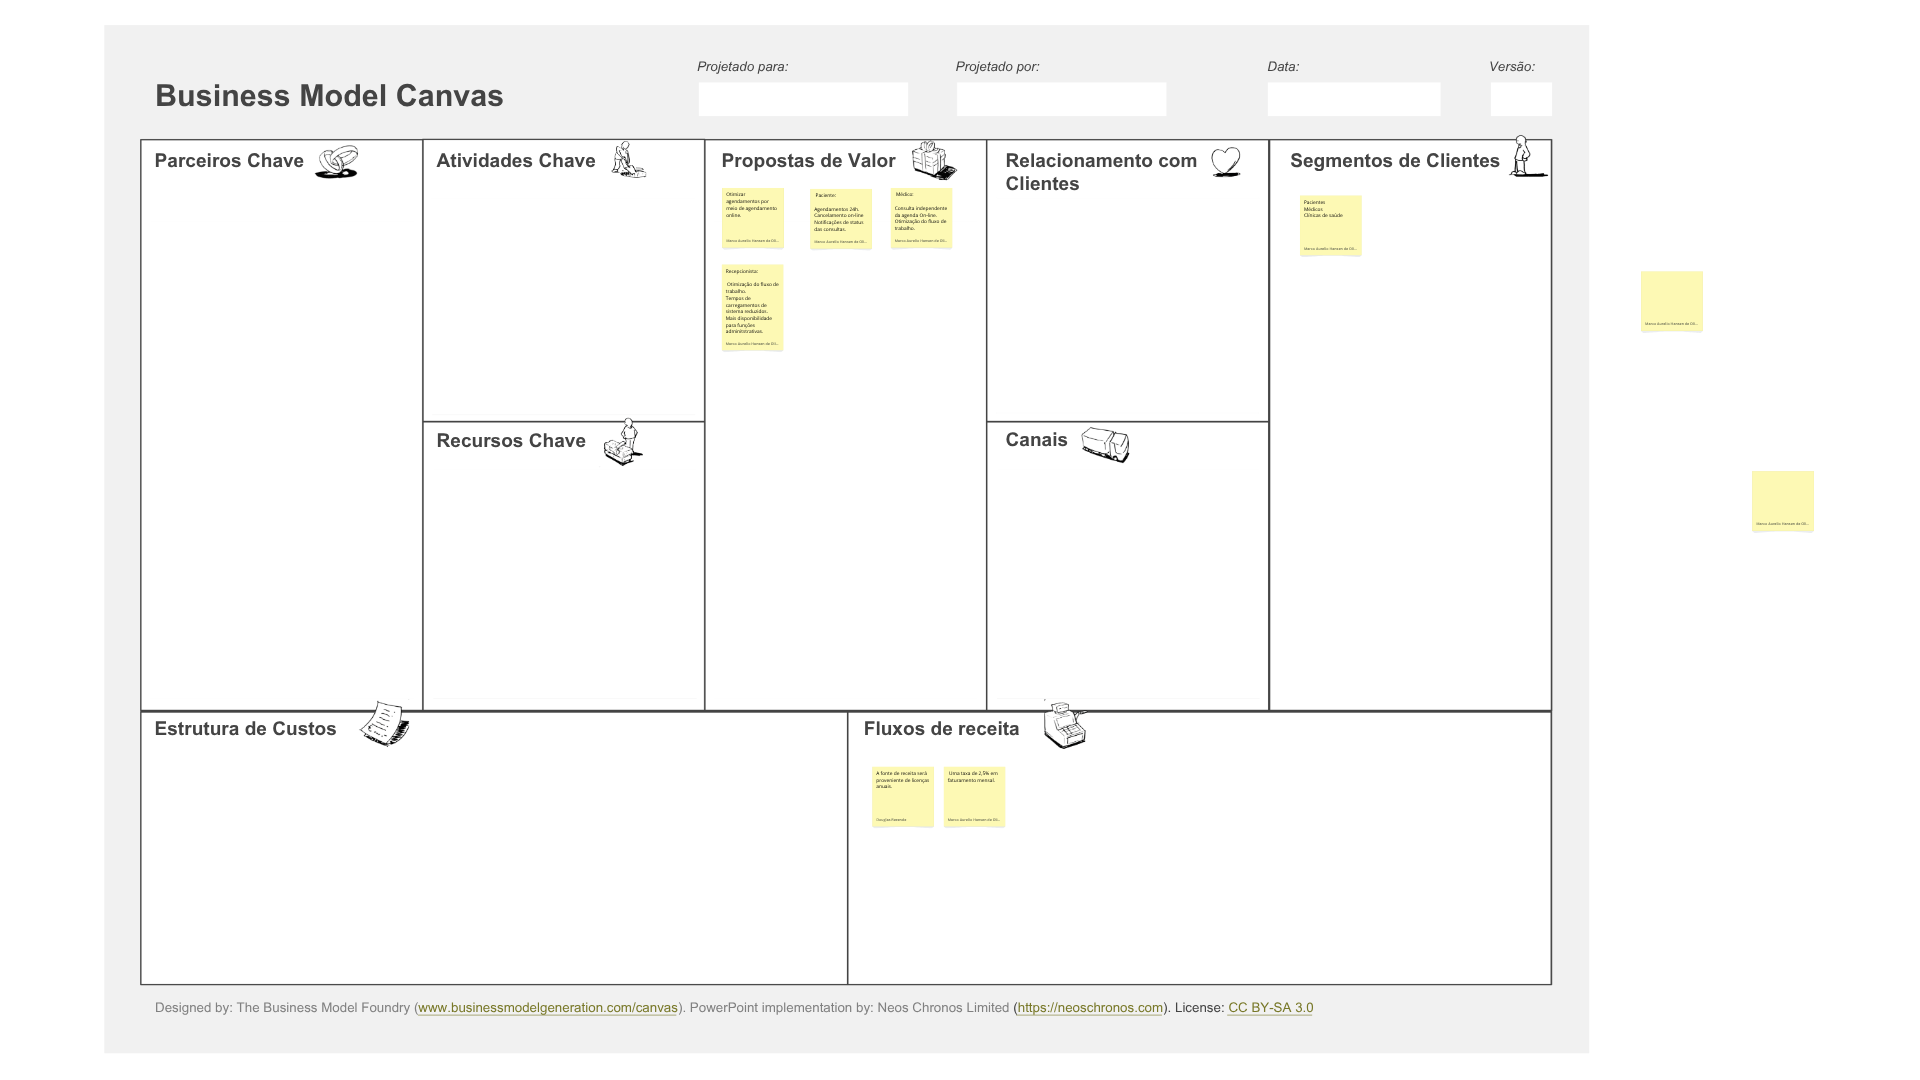
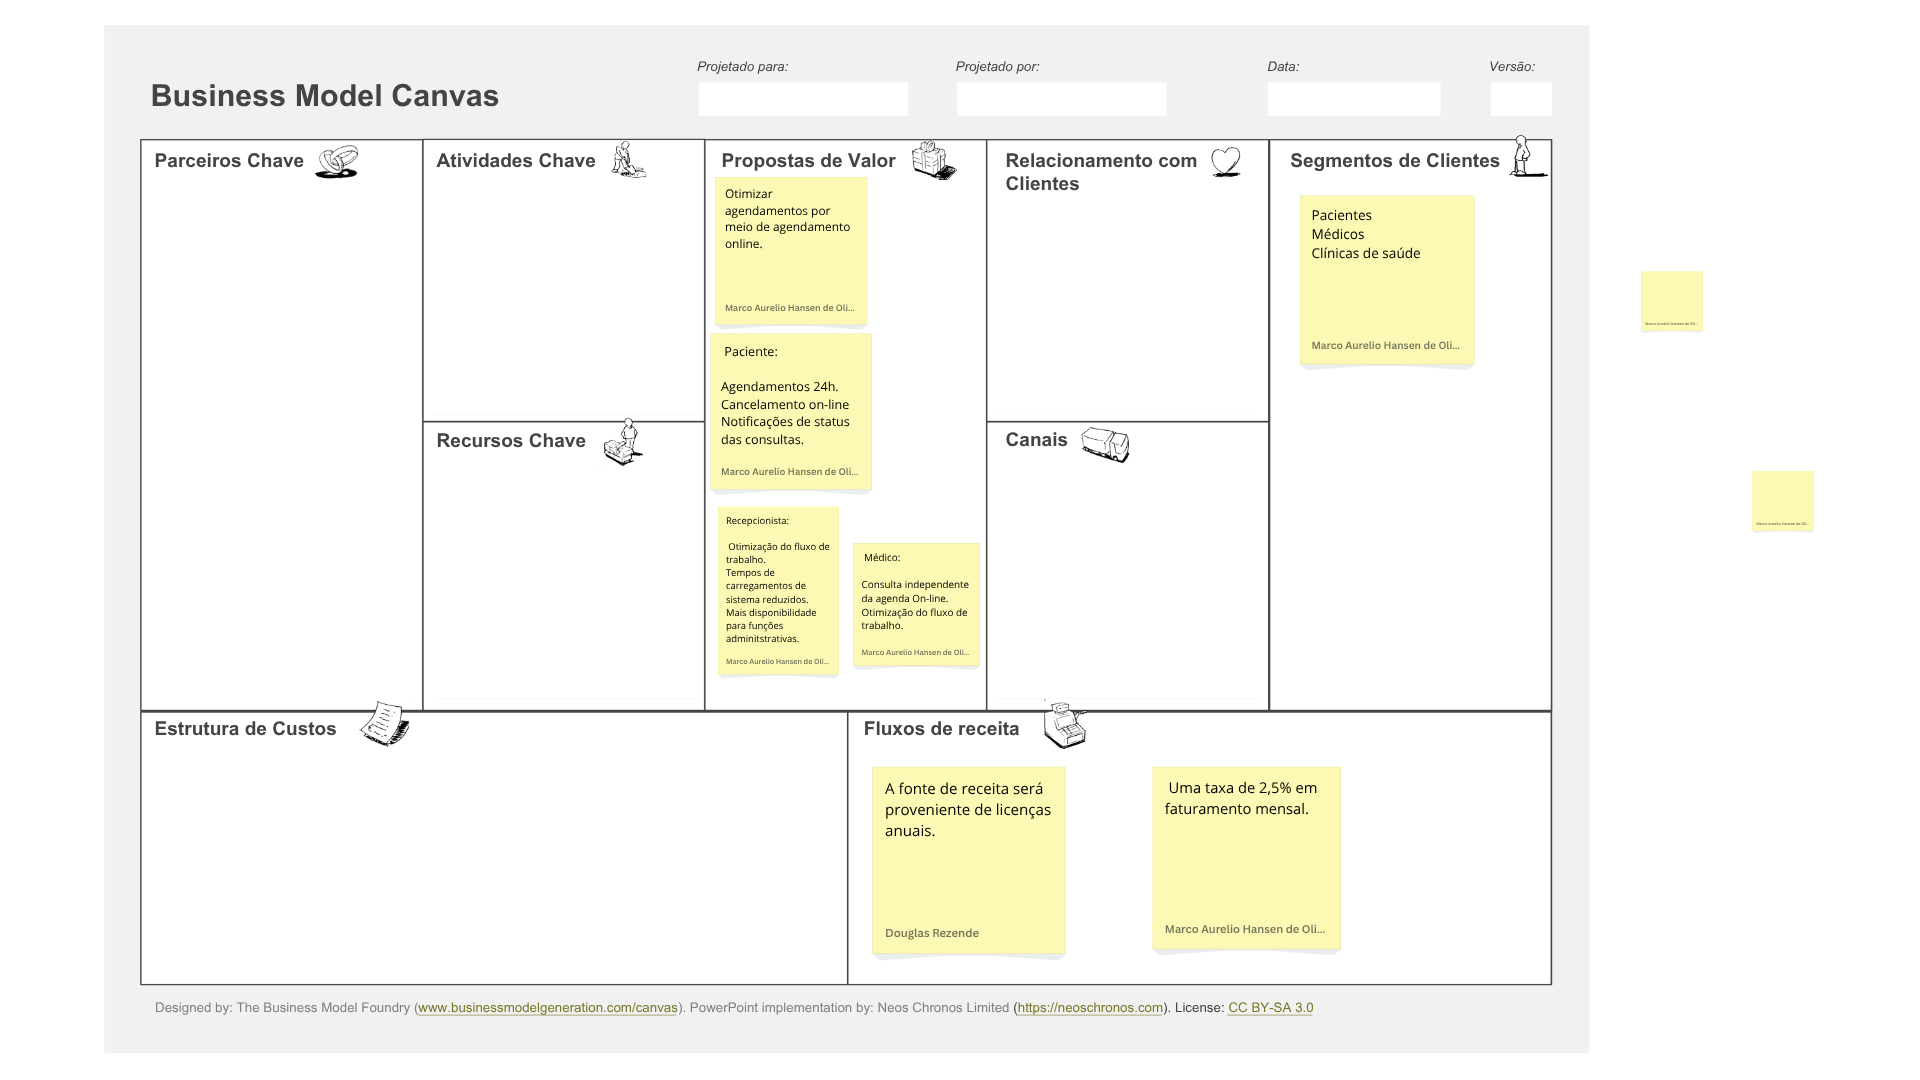
Correções de Melhorias no PR propostas pelo professor  e troca do arquivo BMC para melhorar a visualização.

diff --git a/docs/ClinicaSaude/requisitos.md b/docs/ClinicaSaude/requisitos.md
@@ -9,6 +9,8 @@
 
 ## Requesitos Funcionais
 
++ O sitema deve permitir  cadrastro de planos de saúde definidos pela clínica.
+
 + O Sistema deve enviar notificações de confirmações de reservas.
 
 + O Sistema deve  permitir logins por meio de redes sociais.
@@ -29,7 +31,7 @@
 
 + O sistema deve notificar o cliente em caso de desmarcação por parte da clínica.
 
-+ O sistema deve permitir  que o médico acesse a própria agenda em tempo real em diferentes dispositivos.
++ O sistema deve permitir  que o médico acesse a própria agenda. 
 
 + A recepcionista deve Aprovar solicitações de reservas. 
 
@@ -37,9 +39,11 @@
 
 ## Requesitos não Funcionais
 
-+ Autoatendimento para agendar, cancelar e consultar horários 24/7.
++ O Sistema deve estar dísponivel para agendar, cancelar e consultar horários 24/7.
 
 + O sistema deve ser compatível com plataformas móveis.
+
++ O sitema deve mostrar a agenda em tempo real em diferentes dispositivos.
 
 + O sistema deve realizar backups automático diariamente.
 
@@ -55,6 +59,8 @@
 ## Regras de Negócios
 
 + Clientes que não possuem plano de saúde tem 20% de descontos.
+
++ O sistema deve aceitar somente planos de sáude pré-definidos pela clínica
 
 + Clientes que não confirme em até 24h antes da consulta terão sua consulta desmarcada.
 
